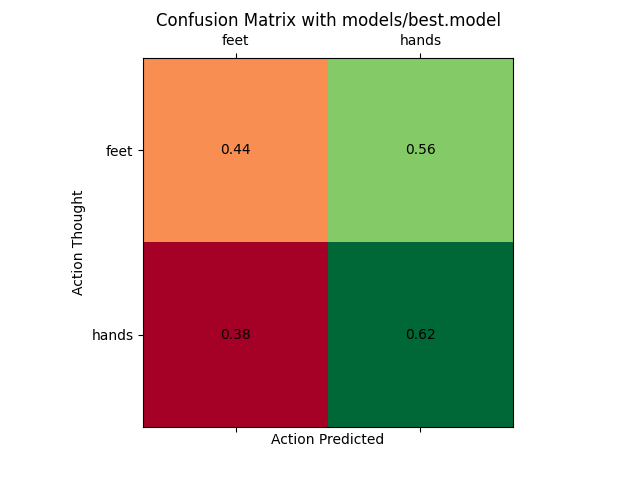
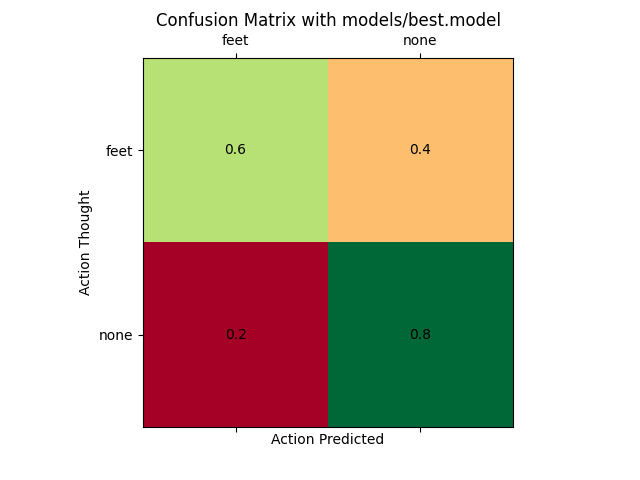
Added visualizations

diff --git a/training.py b/training.py
@@ -187,9 +187,11 @@ def main():
     train_X = standardize(tmp_train_X[:, :, 250:500])
     validation_X = standardize(tmp_validation_X[:, :, 250:500])
 
+    visualize_data(train_X, validation_X, file_name="after_std", length=len(train_X[0, 0]))
+
     fs = 250.0
-    lowcut = 8.0
-    highcut = 30.0
+    lowcut = 5.0
+    highcut = 20.0
 
     for sample in range(len(train_X)):
         for channel in range(len(train_X[0])):
@@ -203,20 +205,17 @@ def main():
             # DataFilter.perform_bandstop(validation_X[sample][channel], 250, 10.0, 1.0, 3, FilterTypes.BUTTERWORTH.value, 0)
             # DataFilter.perform_wavelet_denoising(validation_X[sample][channel], 'coif3', 3)
             # DataFilter.perform_rolling_filter(validation_X[sample][channel], 3, AggOperations.MEAN.value)
-            validation_X[sample][channel] = butter_bandpass_filter(validation_X[sample][channel], lowcut, highcut, fs,
-                                                                   order=5)
-
-    # feature_wise standardization
-    train_X = standardize(train_X, std_type="feature_wise").reshape(
-        (len(train_X), 1, len(train_X[0]), len(train_X[0, 0])))
-    validation_X = standardize(validation_X, std_type="feature_wise").reshape(
-        (len(validation_X), 1, len(validation_X[0]), len(validation_X[0, 0])))
+            validation_X[sample][channel] = butter_bandpass_filter(validation_X[sample][channel],
+                                                                   lowcut, highcut, fs, order=5)
 
     print(train_X.shape)
-    # visualize_data(train_X, validation_X, file_name="after", length=len(train_X[0, 0]))
+    visualize_data(train_X, validation_X, file_name="after_bandpass", length=len(train_X[0, 0]))
+
+    train_X = train_X.reshape((len(train_X), 1, len(train_X[0]), len(train_X[0, 0])))
+    validation_X = validation_X.reshape((len(validation_X), 1, len(validation_X[0]), len(validation_X[0, 0])))
 
     model = TA_CSPNN(nb_classes=2, Timesamples=250, Channels=8)
-    # model = cris_net((len(train_X[0]), len(train_X[0, 0]), 1))
+    # model = cris_net((1, len(train_X[0]), len(train_X[0, 0])))
     model.summary()
 
     model.compile(loss='categorical_crossentropy',
@@ -225,7 +224,7 @@ def main():
 
     # tf.keras.utils.plot_model(model, "pictures/crisnet.png", show_shapes=True)
 
-    batch_size = 3
+    batch_size = 10
     epochs = 50
 
     # saving the model one epoch at a time
@@ -233,7 +232,7 @@ def main():
         model.fit(train_X, train_y, epochs=1, batch_size=batch_size, validation_data=(validation_X, validation_y))
         score = model.evaluate(validation_X, validation_y, batch_size=batch_size)
         MODEL_NAME = f"models/{round(score[1] * 100, 2)}-{epoch}epoch-{int(time.time())}-loss-{round(score[0], 2)}.model"
-        if round(score[1] * 100, 2) > 70:
+        if round(score[1] * 100, 2) >= 70:
             model.save(MODEL_NAME)
             print("saved: ", MODEL_NAME)
 

diff --git a/check_model.py b/check_model.py
@@ -26,7 +26,6 @@ def evaluate_model(untouched_X, untouched_y, model_path):
     ax = fig.add_subplot(111)
     ax.matshow(conf_mat, cmap=plt.get_cmap("RdYlGn"))
 
-    ACTIONS = ["feet", "hands"]
     ax.set_xticklabels([""] + ACTIONS)
     ax.set_yticklabels([""] + ACTIONS)
 
@@ -49,20 +48,18 @@ if __name__ == "__main__":
     untouched_X = standardize(tmp_untouched_X[:, :, 250:500])
 
     fs = 250.0
-    lowcut = 8.0
+    lowcut = 7.0
     highcut = 30.0
 
     for sample in range(len(untouched_X)):
         for channel in range(len(untouched_X[0])):
             # DataFilter.perform_bandstop(train_X[sample][channel], 250, 10.0, 1.0, 3, FilterTypes.BUTTERWORTH.value, 0)
             # DataFilter.perform_wavelet_denoising(train_X[sample][channel], 'coif3', 3)
-            DataFilter.perform_rolling_filter(untouched_X[sample][channel], 3, AggOperations.MEAN.value)
+            # DataFilter.perform_rolling_filter(untouched_X[sample][channel], 3, AggOperations.MEAN.value)
             untouched_X[sample][channel] = butter_bandpass_filter(untouched_X[sample][channel], lowcut, highcut, fs,
                                                                   order=5)
 
-    # feature_wise standardization
-    untouched_X = standardize(untouched_X, std_type="feature_wise").reshape(
-        (len(untouched_X), 1, len(untouched_X[0]), len(untouched_X[0, 0])))
+    untouched_X = untouched_X.reshape((len(untouched_X), 1, len(untouched_X[0]), len(untouched_X[0, 0])))
 
-    score = evaluate_model(untouched_X, untouched_y, 'models/70.83-46epoch-1601318483-loss-0.65.model')
+    score = evaluate_model(untouched_X, untouched_y, 'models/70.0-34epoch-1601368489-loss-0.67.model')
     print("Accuracy on Untouched Data: ", score[1])

diff --git a/dataset_tools.py b/dataset_tools.py
@@ -6,7 +6,7 @@ import os
 ACTIONS = ["feet", "none"]
 
 
-def split_data(starting_dir="data", splitting_percentage=(75, 25, 0), shuffle=True, coupling=False, division_factor=0):
+def split_data(starting_dir="data", splitting_percentage=(70, 20, 10), shuffle=True, coupling=False, division_factor=0):
     """
         This function splits the dataset in three folders, training, validation, untouched
         Has to be run just everytime the dataset is changed
@@ -152,9 +152,9 @@ def load_data(starting_dir, shuffle=True, balance=False):
     # we are using one hot encodings
     for i in range(len(ACTIONS)):
         for sample in data[i]:
-            if i == 0:  # left
+            if i == 0:
                 combined_data.append([sample, [1, 0]])
-            elif i == 1:  # none
+            elif i == 1:
                 combined_data.append([sample, [0, 1]])
 
     if shuffle:

diff --git a/print_signals.py b/print_signals.py
@@ -6,7 +6,7 @@ from dataset_tools import standardize
 import numpy as np
 import os
 
-# this script allows to plot the ffts as the model sees them
+# this script is a sketchbook to test and see the acquired data
 
 
 data = []
